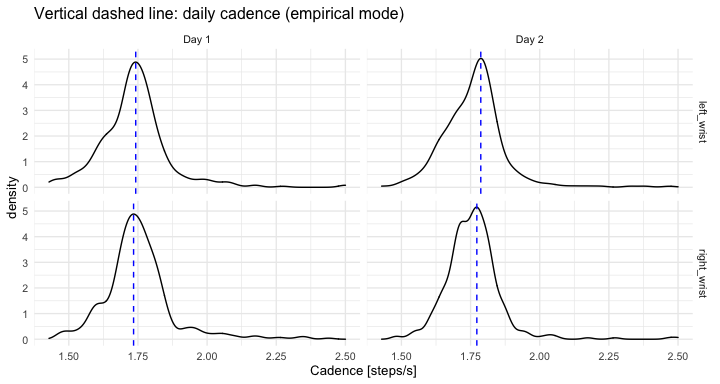
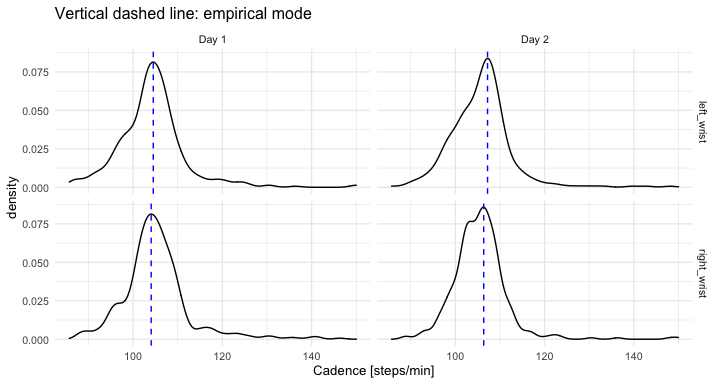
change steps/s into steps/min in readme example

diff --git a/README.md b/README.md
@@ -2,22 +2,22 @@ Automatic walking strides segmentation from wrist-worn sensor
 accelerometry data collected in the free-living
 ================
 
-  - [Accelerometry data sample](#accelerometry-data-sample)
-      - [Description](#description)
-      - [Raw data visualization](#raw-data-visualization)
-  - [Segment individual walking
+-   [Accelerometry data sample](#accelerometry-data-sample)
+    -   [Description](#description)
+    -   [Raw data visualization](#raw-data-visualization)
+-   [Segment individual walking
     strides](#segment-individual-walking-strides)
-      - [Algorithm](#algorithm)
-      - [Stride pattern templates](#stride-pattern-templates)
-      - [Segmentation](#segmentation)
-      - [Visualization of segmented walking
+    -   [Algorithm](#algorithm)
+    -   [Stride pattern templates](#stride-pattern-templates)
+    -   [Segmentation](#segmentation)
+    -   [Visualization of segmented walking
         strides](#visualization-of-segmented-walking-strides)
-  - [Estimation of walking cadence
-    (steps/s)](#estimation-of-walking-cadence-stepss)
-      - [Daily walking cadence](#daily-walking-cadence)
-      - [Hourly walking cadence](#hourly-walking-cadence)
-  - [Session info](#session-info)
-  - [References](#references)
+-   [Estimation of walking cadence
+    (steps/min)](#estimation-of-walking-cadence-stepsmin)
+    -   [Daily walking cadence](#daily-walking-cadence)
+    -   [Hourly walking cadence](#hourly-walking-cadence)
+-   [Session info](#session-info)
+-   [References](#references)
 
 <!-- README.md is generated from README.Rmd. Please edit that file -->
 
@@ -27,7 +27,7 @@ free-living environment.
 
 This repository accompanies “*Estimation of free-living walking cadence
 from wrist-worn sensor accelerometry data and its association with SF-36
-quality of life scores*” \[manuscript\]\[1\] in which the method is
+quality of life scores*” manuscript (\[1\]) in which the method is
 proposed. The method is implemented as the `segmentWalking()` function
 in `adept` R package ([CRAN
 index](https://cran.r-project.org/web/packages/adept/index.html)).
@@ -40,8 +40,8 @@ Below, we demonstrate the method with the use of independent data sample
 
 The directory `data/` contains data files:
 
-  - `acc_raw_left_wrist.rds`
-  - `acc_raw_right_wrist.rds`
+-   `acc_raw_left_wrist.rds`
+-   `acc_raw_right_wrist.rds`
 
 which are a sample of raw accelerometry data collected consecutively for
 2 days, starting and ending at midnight of a week day. Data were
@@ -87,9 +87,9 @@ rbind(head(dat_lw, 3), tail(dat_lw, 3))
 Data were collected from a healthy 28F person.
 
 <details>
-
-<summary>(Click to see IRB note.)</summary>
-
+<summary>
+(Click to see IRB note.)
+</summary>
 The raw accelerometry data in `data/` package were collected from
 sensors worn by Marta Karas, an author of this repository. The IRB
 Office Determination Request Form for Primary (New) Data Collection
@@ -99,7 +99,6 @@ form submitted, it was determined that the data collection and further
 data publishing activity described in the determination request does not
 qualify as human subjects research as defined by DHHS regulations 45 CFR
 46.102, and does not require IRB oversight.
-
 </details>
 
 #### Raw data visualization
@@ -110,8 +109,9 @@ different time frames, each of 4 seconds length, simultaneously for data
 collected at left wrist and right wrist.
 
 <details>
-
-<summary>(Click to see the code.)</summary>
+<summary>
+(Click to see the code.)
+</summary>
 
 ``` r
 # define time frame start values for data subset
@@ -147,13 +147,14 @@ dat_sub %>%
 ![](README_files/figure-gfm/plot_xyz_2-1.png)<!-- -->
 
 Vector magnitude (VM) is often used to reduce the dimensionality of
-accelerometry time-series `(x,y,z)`. VM is computed as `vm = sqrt(x^2 +
-y^2 + z^2)` at each time point resulting in 1- instead of 3-dimensional
-time-series.
+accelerometry time-series `(x,y,z)`. VM is computed as
+`vm = sqrt(x^2 + y^2 + z^2)` at each time point resulting in 1- instead
+of 3-dimensional time-series.
 
 <details>
-
-<summary>(Click to see the code.)</summary>
+<summary>
+(Click to see the code.)
+</summary>
 
 ``` r
 # plot vector magnitude values 
@@ -179,7 +180,7 @@ segment individual walking strides from the raw accelerometry data
 collected with a wrist-worn sensor.
 
 First, the function first uses Adaptive Empirical Pattern Transformation
-(ADEPT) method (see \[ADEPT manuscript\]\[2\]) to segment walking stride
+(ADEPT) method (see ADEPT manuscript \[2\]) to segment walking stride
 patterns. In short, ADEPT uses a predefined template and detects its
 repetitions in data by maximizing the local correlation between
 scale-transformed template’s versions and the observed data at every
@@ -187,16 +188,16 @@ time point. Multiple baseline templates can be used simultaneously to
 best fit various shapes of strides. The ADEPT result describes each
 segmented stride by its:
 
-  - 1)  start time,
+-   1.  start time,
 
-  - 2)  duration (seconds),  
+-   2.  duration (seconds),  
 
-  - 3)  correlation with best-fit template.
+-   3.  correlation with best-fit template.
 
 Second, the function filters the patterns segmented from the data to
 keep those which plausibly and with high specificity correspond to
 walking activity. Methodological details are reported in the method
-\[manuscript\]\[1\].
+manuscript (\[1\]).
 
 #### Stride pattern templates
 
@@ -206,8 +207,9 @@ in
 R package.
 
 <details>
-
-<summary>(Click to see the code.)</summary>
+<summary>
+(Click to see the code.)
+</summary>
 
 ``` r
 # pull 3 x 200 matrix with 3 distinct stride pattern templates
@@ -243,8 +245,9 @@ sensor. Default algorithm parameters are optimized for a wrist-worn
 sensor.
 
 <details>
-
-<summary>(Click to see the code – part 1.)</summary>
+<summary>
+(Click to see the code – part 1.)
+</summary>
 
 ``` r
 # convert templates matrix to templates list 
@@ -278,10 +281,10 @@ saveRDS(out_rw, paste0(here::here(), "/data/out_rw.rds"))
 ```
 
 </details>
-
 <details>
-
-<summary>(Click to see the code – part 2.)</summary>
+<summary>
+(Click to see the code – part 2.)
+</summary>
 
 ``` r
 # read precomputed results for faster README compilation 
@@ -310,8 +313,9 @@ Below, we visualize first K=50 strides segmented from (a) left wrist,
 (b) right-wrist worn sensor.
 
 <details>
-
-<summary>(Click to see the code.)</summary>
+<summary>
+(Click to see the code.)
+</summary>
 
 ``` r
 # get VM from raw data frames
@@ -363,7 +367,7 @@ ggplot(plt_df, aes(x = stride_duration, y = stride_dat, group = stride_id)) +
 
 ![](README_files/figure-gfm/vizu_segmented_2-1.png)<!-- -->
 
-### Estimation of walking cadence (steps/s)
+### Estimation of walking cadence (steps/min)
 
 #### Daily walking cadence
 
@@ -371,13 +375,14 @@ The data used in this tutorial consists of two days of continuous
 monitoring. We use
 
 segmented strides to estimate the walking cadence (number of steps per
-second) at every time of the day when walking was identified. Next, we
+minute) at every time of the day when walking was identified. Next, we
 compute the mode of all estimated cadences during the day was computed –
 a *daily cadence* measurement.
 
 <details>
-
-<summary>(Click to see the code.)</summary>
+<summary>
+(Click to see the code.)
+</summary>
 
 ``` r
 # function to compute mode
@@ -399,8 +404,8 @@ out_comb_1 <- rbind(
     # (stride := two subsequent steps)
     # over data frequency (number of observations per 1 second)
     dur_i = T_i / hz_val, 
-    # define cadence as number of steps per 1 second
-    cadence_i = 2/dur_i,
+    # define cadence as number of steps per 1 minute
+    cadence_i = (2/dur_i) * 60,
     # define collection day "ID" 
     day_id = ceiling(tau_i / (hz_val * 60 * 60 * 24)),
     day_id = factor(day_id, levels = c(1,2), labels = paste0("Day ", 1:2))
@@ -422,7 +427,7 @@ ggplot(out_comb_1, aes(x = cadence_i)) +
   geom_vline(data = out_comb_1_mode, aes(xintercept = cadence_mode), 
              linetype = 2, color = "blue") +
   theme_minimal(base_size = 10) + 
-  labs(x = "Cadence [steps/s]", title = "Vertical dashed line: empirical mode")
+  labs(x = "Cadence [steps/min]", title = "Vertical dashed line: empirical mode")
 ```
 
 </details>
@@ -430,11 +435,12 @@ ggplot(out_comb_1, aes(x = cadence_i)) +
 ![](README_files/figure-gfm/vizu_daily_candece_2-1.png)<!-- -->
 
 The table summarizes empirical mode of stride duration \[s\] and cadence
-\[steps/s\]:
+\[steps/min\]:
 
 <details>
-
-<summary>(Click to see the code.)</summary>
+<summary>
+(Click to see the code.)
+</summary>
 
 ``` r
 print(out_comb_1_mode)
@@ -461,8 +467,9 @@ day-hours where the number of estimated walking strides is more or equal
 10.
 
 <details>
-
-<summary>(Click to see the code.)</summary>
+<summary>
+(Click to see the code.)
+</summary>
 
 ``` r
 # compute hour ID  
@@ -489,7 +496,7 @@ ggplot(out_comb_1_mode_hourly %>% filter(cnt > 10),
   facet_grid(loc_id ~ day_id) + 
   theme_minimal(base_size = 10) + 
   labs(x = "Hour of a day", 
-       y = "Cadence [steps/s]",
+       y = "Cadence [steps/min]",
        alpha = "Segmented\nstrides\ncount",
        size = "Segmented\nstrides\ncount") + 
   scale_x_continuous(limits = c(0, 23), breaks = seq(0, 23, by = 2))
@@ -502,8 +509,9 @@ ggplot(out_comb_1_mode_hourly %>% filter(cnt > 10),
 ### Session info
 
 <details>
-
-<summary>(Click to see session info.)</summary>
+<summary>
+(Click to see session info.)
+</summary>
 
 ``` r
 devtools::session_info()
